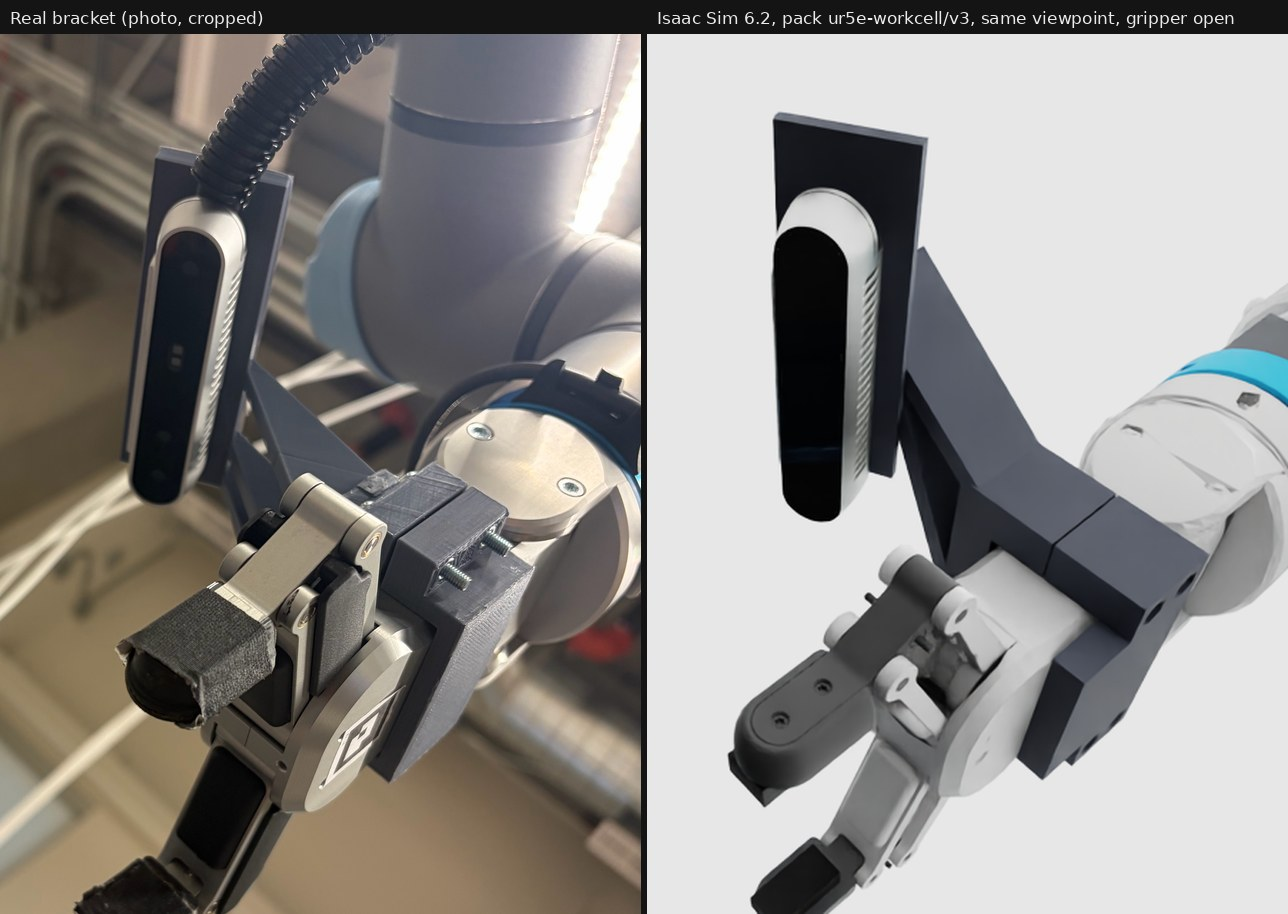
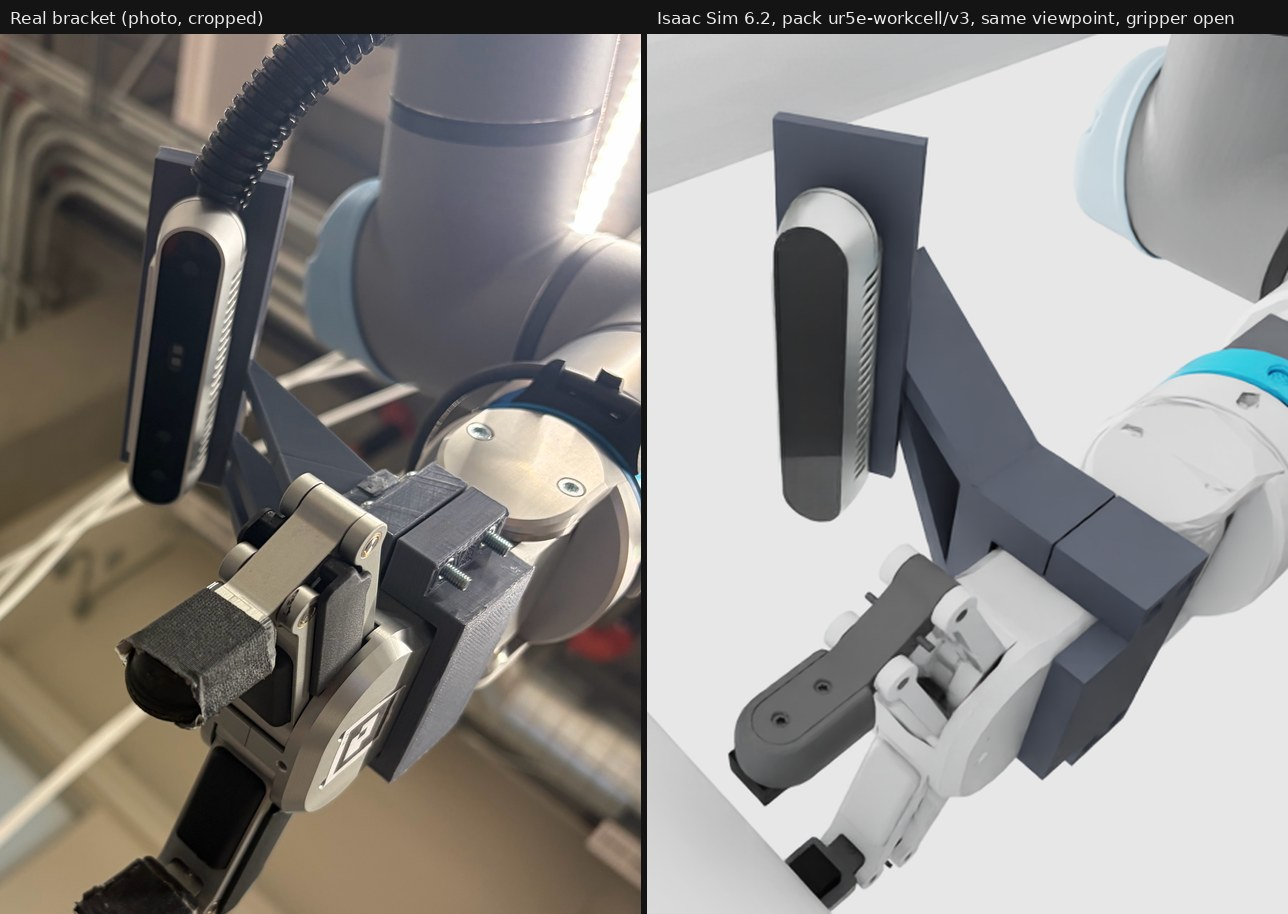
Work cell: mount the RG2 as on the real arm (front face on the connector side)
At the pose the cell is built in (every joint at zero, tool axis about 66 mm
above the bench) the camera plate was inside the bench: the RG2 was half a
turn round from the real mounting, which put the camera on the tool0 -Y side.
The photos of the wrist show the RG2's front face on the side of wrist 3's
tool connector, tool0 -Y, so asset_layout.rg2.mount_pose is turned half a turn
about the tool axis (from photos, to be confirmed on the robot). The camera is
now on the tool0 +Y side. The pack is unchanged.

A test now checks every bracket collision shape and the D415 body against the
bench, the base plate and the rest of the robot at the built pose and with
the tool down, and requires two of Newton's 4 mm contact gaps.

diff --git a/mcp/tests/test_workcell_real_pack.py b/mcp/tests/test_workcell_real_pack.py
@@ -348,6 +348,138 @@ def test_bracket_collider_is_on_the_rg2_body_and_touches_nothing(cell):
     assert len(fixed) == 3 and min(fixed.values()) > 0.05, fixed
 
 
+ARM_JOINTS = ("shoulder_pan_joint", "shoulder_lift_joint", "elbow_joint", "wrist_1_joint", "wrist_2_joint", "wrist_3_joint")
+POSES_DEG = {"as built (every joint at zero)": (0, 0, 0, 0, 0, 0), "tool down": (0, -80, 100, -110, -90, 0)}
+
+
+def _posed_bodies(stage, assembly, degrees):
+    """Row-vector world matrices of the assembly's rigid bodies with the arm's joints at ``degrees`` (every other joint
+    at zero), by walking the joints from the bodies that nothing moves."""
+    cache = UsdGeom.XformCache()
+    angles = dict(zip(ARM_JOINTS, degrees))
+    joints, bodies = [], [prim for prim in Usd.PrimRange(assembly) if prim.HasAPI(UsdPhysics.RigidBodyAPI)]
+    for prim in Usd.PrimRange(assembly):
+        if not prim.IsA(UsdPhysics.Joint) or UsdPhysics.Joint(prim).GetJointEnabledAttr().Get() is False:
+            continue
+        joint = UsdPhysics.Joint(prim)
+        ends = [joint.GetBody0Rel().GetTargets(), joint.GetBody1Rel().GetTargets()]
+        if not all(ends):
+            continue                                     # an anchor to the world
+        turn = Gf.Matrix4d(1.0)
+        if prim.IsA(UsdPhysics.RevoluteJoint):
+            axis = {"X": Gf.Vec3d(1, 0, 0), "Y": Gf.Vec3d(0, 1, 0), "Z": Gf.Vec3d(0, 0, 1)}[UsdPhysics.RevoluteJoint(prim).GetAxisAttr().Get()]
+            turn.SetRotate(Gf.Rotation(axis, float(angles.get(prim.GetName(), 0.0))))
+        joints.append((ends[0][0], ends[1][0], _joint_pose(joint.GetLocalPos0Attr().Get(), joint.GetLocalRot0Attr().Get()),
+                       _joint_pose(joint.GetLocalPos1Attr().Get(), joint.GetLocalRot1Attr().Get()), turn))
+    children = {child for _, child, *_ in joints}
+    world = {prim.GetPath(): cache.GetLocalToWorldTransform(prim) for prim in bodies if prim.GetPath() not in children}
+    while True:
+        moved = False
+        for parent, child, frame0, frame1, turn in joints:
+            if parent in world and child not in world:
+                world[child] = frame1.GetInverse() * turn * frame0 * world[parent]
+                moved = True
+        if not moved:
+            break
+    assert set(world) == {prim.GetPath() for prim in bodies}
+    return world
+
+
+def _static_collision_points(stage, root, meshes=False):
+    """World points of every collision shape under ``root``: a mesh's points, or the corners of a primitive's box.
+    With ``meshes``, every mesh counts, collider or not (the base plate is render geometry only)."""
+    cache = UsdGeom.XformCache()
+    boxes = UsdGeom.BBoxCache(Usd.TimeCode.Default(), ["default", "render", "guide", "proxy"])
+    chunks = {}
+    for prim in Usd.PrimRange(root):
+        if not (prim.HasAPI(UsdPhysics.CollisionAPI) or (meshes and prim.IsA(UsdGeom.Mesh))):
+            continue
+        if prim.IsA(UsdGeom.Mesh):
+            points = np.array(UsdGeom.Mesh(prim).GetPointsAttr().Get(), dtype=float)
+        else:
+            box = boxes.ComputeUntransformedBound(prim).ComputeAlignedRange()
+            points = np.array([[x, y, z] for x in (box.GetMin()[0], box.GetMax()[0]) for y in (box.GetMin()[1], box.GetMax()[1])
+                               for z in (box.GetMin()[2], box.GetMax()[2])], dtype=float)
+        chunks[str(prim.GetPath())] = (np.c_[points, np.ones(len(points))] @ np.array(cache.GetLocalToWorldTransform(prim)))[:, :3]
+    return chunks
+
+
+def bracket_clearances(cell):
+    """{pose: {shape: {"bench" | "base plate" | "robot": (metres, nearest collider)}}} for the five bracket collision
+    shapes and the D415 body box, against every collider of the bench, the base plate and every robot body except the
+    RG2 body the bracket belongs to."""
+    config, stage, report, camera_report, pack = cell
+    cache = UsdGeom.XformCache()
+    assembly = stage.GetPrimAtPath(report["assembly_path"])
+    body = stage.GetPrimAtPath(_rg2_frame(stage, report, config))
+    to_body = cache.GetLocalToWorldTransform(body).GetInverse()
+    root = stage.GetPrimAtPath(camera_report["colliders"][0]["prim_path"])
+    shapes = {prim.GetName(): (np.c_[points, np.ones(len(points))] @ np.array(cache.GetLocalToWorldTransform(prim) * to_body))[:, :3]
+              for prim in Usd.PrimRange(root) if prim.HasAPI(UsdPhysics.CollisionAPI)
+              for points in [np.array(UsdGeom.Mesh(prim).GetPointsAttr().Get(), dtype=float)]}
+    wrist = camera_report["cameras"]["wrist"]["root_path"]
+    optical = _vertices_in_frame(stage, wrist, [f"{wrist}/body"])                       # the D415 body: no collider, checked anyway
+    corners = np.array([[x, y, z] for x in (optical[:, 0].min(), optical[:, 0].max()) for y in (optical[:, 1].min(), optical[:, 1].max())
+                        for z in (optical[:, 2].min(), optical[:, 2].max())])
+    wrist_to_body = cache.GetLocalToWorldTransform(stage.GetPrimAtPath(wrist)) * to_body
+    shapes["d415_body (no collider)"] = (np.c_[corners, np.ones(8)] @ np.array(wrist_to_body))[:, :3]
+
+    if not stage.GetPrimAtPath("/World/Bench"):                                          # placed as scene.py places it
+        bench = UsdGeom.Xform.Define(stage, "/World/Bench")
+        bench.GetPrim().GetReferences().AddReference(str(pack.asset(config["assets"]["bench"])))
+        xy, scale = config["world"]["workstation_xy_m"], config["world"]["bench_scale"]
+        bench.AddTranslateOp().Set(Gf.Vec3d(xy[0], xy[1], -config["world"]["bench_asset_top_z_m"]))
+        bench.AddScaleOp().Set(Gf.Vec3f(scale, scale, scale))
+    static = {"bench": _static_collision_points(stage, stage.GetPrimAtPath("/World/Bench")),
+              "base plate": _static_collision_points(stage, stage.GetPrimAtPath(report["base_plate_path"]), meshes=True)}
+    assert len(static["bench"]) > 20 and static["base plate"]
+    links = {prim.GetPath(): _collision_points(stage, prim) for prim in Usd.PrimRange(assembly)
+             if prim.HasAPI(UsdPhysics.RigidBodyAPI) and prim != body}
+    assert sum(1 for chunks in links.values() if chunks) >= 12                          # the arm, the stack and the fingers
+
+    result = {}
+    for pose, degrees in POSES_DEG.items():
+        world = _posed_bodies(stage, assembly, degrees)
+        if not any(degrees):
+            for path, matrix in world.items():                                           # the walk reproduces the built stage
+                assert np.allclose(np.array(matrix), np.array(cache.GetLocalToWorldTransform(stage.GetPrimAtPath(path))), atol=1e-5), path
+        placed = {name: (np.c_[points, np.ones(len(points))] @ np.array(world[body.GetPath()]))[:, :3] for name, points in shapes.items()}
+        others = {"bench": static["bench"], "base plate": static["base plate"],
+                  "robot": {f"{path.name}#{index}": (np.c_[chunk, np.ones(len(chunk))] @ np.array(world[path]))[:, :3]
+                            for path, chunks in links.items() for index, chunk in enumerate(chunks)}}
+        result[pose] = {}
+        for name, points in placed.items():
+            low, high = points.min(0), points.max(0)
+            result[pose][name] = {}
+            for kind, colliders in others.items():
+                best = (1.0, None)
+                for label, other in colliders.items():
+                    gap = np.maximum(0.0, np.maximum(other.min(0) - high, low - other.max(0)))
+                    if np.linalg.norm(gap) >= best[0]:
+                        continue                                                         # its bounding box is already further
+                    distance = _gilbert(points, other)
+                    if distance < best[0]:
+                        best = (distance, label)
+                result[pose][name][kind] = best
+    return result
+
+
+def test_bracket_and_camera_clear_the_bench_the_base_and_the_arm_at_the_built_pose_and_tool_down(cell):
+    """The cell is built with every joint at zero: the arm lies stretched out, the tool axis 66 mm above the bench.
+    Nothing of the bracket or the camera may be within two of Newton's 4 mm contact gaps of the bench, the base plate
+    or any other body of the robot there, or with the tool pointing down. (With the RG2 mounted half a turn round, the
+    camera plate was inside the bench at the built pose and threw the arm.)"""
+    clearances = bracket_clearances(cell)
+    assert set(clearances) == set(POSES_DEG)
+    for pose, shapes in clearances.items():
+        assert set(shapes) == BRACKET_SHAPES | {"d415_body (no collider)"}
+        for name, kinds in shapes.items():
+            for kind, (distance, nearest) in kinds.items():
+                assert distance >= 2 * NEWTON_CONTACT_GAP_M, f"{name} is {distance * 1000:.1f} mm from {kind} ({nearest}) at {pose}"
+    built = clearances["as built (every joint at zero)"]
+    assert built["camera_plate"]["bench"][0] > 0.10 and built["d415_body (no collider)"]["bench"][0] > 0.10      # above the tool axis
+
+
 def test_pack_is_complete_on_its_own(cell):
     """Every layer the built cell opens is inside the pinned pack version: no file of another version is needed."""
     config, stage, _, _, pack = cell

diff --git a/mcp/tests/test_workcell_cameras.py b/mcp/tests/test_workcell_cameras.py
@@ -124,24 +124,31 @@ def test_intrinsics_follow_config_resolution_and_fov(config, tmp_path):
         assert camera["depth"]["units"] == "m"
 
 
+def same_rotation(first, second):
+    """Two unit quaternions that are the same rotation (q and -q are)."""
+    return abs(sum(a * b for a, b in zip(first, second))) == pytest.approx(1.0)
+
+
 def test_wrist_pose_in_the_rg2_frame_and_optical_to_usd_conversion(config, tmp_path):
     """The pose is configured in the RG2 body frame; with the shipped stack that frame is tool0 moved 47.92 mm along
-    the tool axis (Bota 32 mm + Quick Changer 15.92 mm) and turned -90 degrees about it."""
+    the tool axis (Bota 32 mm + Quick Changer 15.92 mm) and turned +90 degrees about it: the RG2's front face (body -X)
+    is on tool0 -Y, the side of wrist 3's tool connector, as on the real arm."""
     rg2_t, rg2_q, length = cameras.rg2_in_tool0(config)
     assert length == pytest.approx(config["bota"]["length_m"] + config["quick_changer"]["standoff_m"])
     assert rg2_t == pytest.approx([0, 0, length])
     half = math.sqrt(0.5)
-    assert rg2_q == pytest.approx([half, 0, 0, -half])
+    assert same_rotation(rg2_q, [half, 0, 0, half])
     assert cameras._rotate_vector(rg2_q, [0, 0, 1]) == pytest.approx([0, 0, 1])      # approach axis = tool0 +Z
-    assert cameras._rotate_vector(rg2_q, [0, 1, 0]) == pytest.approx([1, 0, 0])      # finger-opening axis
-    assert cameras._rotate_vector(rg2_q, [1, 0, 0]) == pytest.approx([0, -1, 0])     # out of the back face
+    assert cameras._rotate_vector(rg2_q, [0, 1, 0]) == pytest.approx([-1, 0, 0])     # finger-opening axis
+    assert cameras._rotate_vector(rg2_q, [1, 0, 0]) == pytest.approx([0, 1, 0])      # out of the back face: tool0 +Y
+    assert cameras._rotate_vector(rg2_q, [-1, 0, 0]) == pytest.approx([0, -1, 0])    # the front face: the connector's side
 
     config["wrist_camera"]["rotation_in_rg2_deg"] = [0.0, 0.0, 0.0]
     config["wrist_camera"]["offset_in_rg2_m"] = [0.01, -0.02, 0.03]
     wrist = build(config, tmp_path)["cameras"]["wrist"]
-    offset = [-0.02, -0.01, 0.03 + length]
+    offset = [0.02, 0.01, 0.03 + length]
     assert wrist["optical"]["translation_m"] == pytest.approx(offset)
-    assert wrist["optical"]["quaternion_wxyz"] == pytest.approx(rg2_q)
+    assert same_rotation(wrist["optical"]["quaternion_wxyz"], rg2_q)
     assert wrist["mount"]["offset_in_tool0_m"] == pytest.approx(offset)
     assert wrist["mount"]["frame"] == "rg2" and wrist["mount"]["stack_length_m"] == pytest.approx(length)
     matrix = wrist["optical"]["matrix4x4_row_major"]
@@ -154,7 +161,7 @@ def test_wrist_pose_in_the_rg2_frame_and_optical_to_usd_conversion(config, tmp_p
     rotated = copy.deepcopy(config)
     rotated["wrist_camera"]["rotation_in_rg2_deg"] = [0, 0, 90]
     camera = build(rotated, tmp_path)["cameras"]["wrist"]
-    assert camera["optical"]["quaternion_wxyz"] == pytest.approx([1, 0, 0, 0])       # -90 (stack) + 90 (camera)
+    assert same_rotation(camera["optical"]["quaternion_wxyz"], [0, 0, 0, 1])         # +90 (stack) + 90 (camera)
     # The wrist root carries the optical rotation; the camera prim keeps only Rx(180 deg).
     assert camera["usd_camera"]["quaternion_wxyz"] == pytest.approx([0, 1, 0, 0])
     bracket = next(part for part in build(rotated, tmp_path)["parts"] if part["role"] == "wrist_mount")
@@ -171,11 +178,11 @@ def test_wrist_camera_tilt_is_carried_through_the_pose_math(config, tmp_path):
     rg2_t, rg2_q, length = cameras.rg2_in_tool0(config)
     optical = wrist["optical"]["quaternion_wxyz"]
     half, sine, cosine = math.sqrt(0.5), math.sin(math.radians(30)), math.cos(math.radians(30))
-    # In the RG2 body frame the optical axis is (-sin, 0, cos); the body's +X is tool0 -Y and its +Y is tool0 +X.
-    assert cameras._rotate_vector(optical, [0, 0, 1]) == pytest.approx([0, sine, cosine])
-    assert cameras._rotate_vector(optical, [1, 0, 0]) == pytest.approx([-1, 0, 0])
-    assert cameras._rotate_vector(optical, [0, 1, 0]) == pytest.approx([0, -cosine, sine])
-    assert wrist["optical"]["translation_m"] == pytest.approx([-0.03, -0.07, 0.12 + length])
+    # In the RG2 body frame the optical axis is (-sin, 0, cos); the body's +X is tool0 +Y and its +Y is tool0 -X.
+    assert cameras._rotate_vector(optical, [0, 0, 1]) == pytest.approx([0, -sine, cosine])
+    assert cameras._rotate_vector(optical, [1, 0, 0]) == pytest.approx([1, 0, 0])
+    assert cameras._rotate_vector(optical, [0, 1, 0]) == pytest.approx([0, cosine, sine])
+    assert wrist["optical"]["translation_m"] == pytest.approx([0.03, 0.07, 0.12 + length])
     bracket = next(part for part in report["parts"] if part["role"] == "wrist_mount")["local"]
     # The bracket asset is in the RG2 body frame: seen from the camera it is the inverse of the camera's pose there.
     in_rg2 = cameras._euler_xyz_deg_to_quat([30.0, 0.0, -90.0])
@@ -183,7 +190,7 @@ def test_wrist_camera_tilt_is_carried_through_the_pose_math(config, tmp_path):
     back = cameras._rotate_vector(in_rg2, bracket["translation_m"])
     assert [value + offset for value, offset in zip(back, [0.07, -0.03, 0.12])] == pytest.approx([0, 0, 0], abs=1e-12)
     assert cameras._rotate_vector(in_rg2, [0, 0, 1]) == pytest.approx([-sine, 0, cosine])
-    assert half > 0 and rg2_q == pytest.approx([half, 0, 0, -half])
+    assert same_rotation(rg2_q, [half, 0, 0, half])
 
 
 def test_wrist_camera_follows_the_rg2_when_the_stack_changes(config, tmp_path):

diff --git a/exts/workcell/cad/README.md b/exts/workcell/cad/README.md
@@ -9,7 +9,7 @@
 
 ![Real bracket and simulated bracket from the same viewpoint](../../../docs/media/workcell-bracket-real-vs-sim.jpg)
 
-What still differs: the simulated arm is in the cell's presentation pose, not the photo's; the printed blocks and the
+What still differs: the simulated arm is posed with the tool horizontal, not as in the photo; the printed blocks and the
 truss are a reconstruction, squarer and heavier than the real ones; the bolt ends, the hot glue at the foot of the
 arm, the cable and the AprilTag are not modelled; the simulated RG2 has add-on finger pads and no tape.
 
@@ -117,6 +117,15 @@ does not move and the optical origin moves by 0.2 mm.
 6. The collar: its length along the body, the wall thicknesses, the bolt size and whether the far side also has two.
 7. The plate: length, width, thickness, and where the camera's two M3 holes are on it.
 
+## Which side of the wrist
+
+The bracket is on the RG2, so which side of tool0 the camera is on depends on how the RG2 is turned about the tool
+axis. From the photos of the wrist before the bracket was fitted, the RG2's front face (logo, AprilTag) is on the side
+of wrist 3's M8 tool connector, which is tool0 -Y (Universal Robots: "Y is away from the Tool connector"). The config
+mounts the RG2 that way (`asset_layout.rg2.mount_pose`, status unconfirmed, from photos, confirm on the robot), so the
+camera, on the back face, is on the tool0 +Y side: optical origin at (0.033, 0.066, 0.165) m in tool0 with the shipped
+stack, optical axis (0, -0.423, 0.906).
+
 ## Collision
 
 The bracket has a collider in the built cell; the D415 body does not (a single box on it, on the same body, would be
@@ -152,6 +161,22 @@ links' own collision hulls (`mcp/tests/test_workcell_real_pack.py` repeats it):
 | `plate_support` | 50.8 mm | 93.0 mm |
 
 Any shape to the Quick Changer: 72.8 mm; to the Bota: 87.8 mm; to wrist 3: 119.8 mm.
+
+Against the bench at the two poses the cell is used in (a test repeats this for every bench collider, the base plate
+and every other body of the robot, and requires 8 mm):
+
+| Shape | Bench, as built (every joint at zero) | Bench, tool down (0, -80, 100, -110, -90, 0) |
+|---|---|---|
+| `collar` | 37.6 mm | 176.7 mm |
+| `front_bar_extension` | 39.3 mm | 175.3 mm |
+| `truss` | 91.9 mm | 171.5 mm |
+| `camera_plate` | 120.3 mm | 152.6 mm |
+| `plate_support` | 122.2 mm | 162.2 mm |
+| D415 body (no collider) | 117.2 mm | 137.6 mm |
+
+The cell is built with every joint at zero: the arm lies stretched out along the bench with the tool axis about 66 mm
+above it, and the camera is on the upper side there. Turning wrist 3 at that pose swings the camera down into the
+bench, as it would on a real arm that low.
 
 ## Build, print and assemble
 

diff --git a/exts/workcell/workcell/README.md b/exts/workcell/workcell/README.md
@@ -258,6 +258,13 @@ The current candidate contains:
   image ([capture](../../../docs/media/workcell-wrist-view-sim.jpg)). Tests build the real pack and check that the
   collar is around the RG2's 54 x 36 mm waist, that the camera's back is on the plate, that bracket and camera stay
   out of the slab the finger linkage moves in, and that the image shows the fingertips and not the arm or the bracket.
+  The RG2 is mounted with its front face (logo, AprilTag) on the side of wrist 3's tool connector, tool0 -Y, as the
+  photos of the real wrist show (`asset_layout.rg2.mount_pose`: from photos, confirm on the robot), so the camera is on
+  the tool0 +Y side. Known limits: the cell is built with every joint at zero, the arm stretched out along the bench
+  with the tool axis about 66 mm above it (`robot.initial_joint_deg` is read by nothing); the camera is on the upper
+  side there, 117 mm clear of the bench, and turning wrist 3 at that pose swings it into the bench, as it would on a
+  real arm that low. A test checks every bracket shape and the camera body against the bench, the base plate and
+  the rest of the robot at that pose and with the tool down.
   The bracket has a collider; the D415 body has none. The pack's bracket asset carries five convex hulls (`collar`,
   `front_bar_extension`, `truss`, `plate_support`, `camera_plate`, each with `physics:approximation = "convexHull"`),
   and the builder references them under the RG2 body it clamps, at
@@ -294,7 +301,7 @@ configuration or a design envelope and are not vendor drawings.
 | RG2 maximum opening | 0.110 m | `confirmed` |
 | Finger pad size | 0.012 x 0.008 x 0.025 m | Provisional proxy; installed dimensions `unconfirmed` |
 | D415 body | 0.099 x 0.020 x 0.023 m | `confirmed` (Intel RealSense D400 Series Datasheet rev 017, table 3-51) |
-| Wrist camera offset | 0.066, -0.033, 0.117 m in the RG2 body frame (off the back face; -0.033, -0.066, 0.165 m in tool0 with the shipped stack) | `unconfirmed`, estimated from photo |
+| Wrist camera offset | 0.066, -0.033, 0.117 m in the RG2 body frame (off the back face; 0.033, 0.066, 0.165 m in tool0 with the shipped stack and RG2 roll) | `unconfirmed`, estimated from photo |
 | Wrist camera rotation | 25, 0, -90 degrees in the RG2 body frame (extrinsic XYZ): long axis along the finger-opening axis, tilted 25 degrees toward the tool axis | `unconfirmed`, estimated from photo |
 | Wrist camera image | 1280 x 720, 69.4 x 42.5 degree field of view, principal point at the centre (as Max's localizer assumes) | `confirmed` (nominal; the unit's factory intrinsics are not recorded) |
 | Overhead camera position (not built) | 0.91, -0.2, 1.02 m, under the gantry beam | `unconfirmed` |
